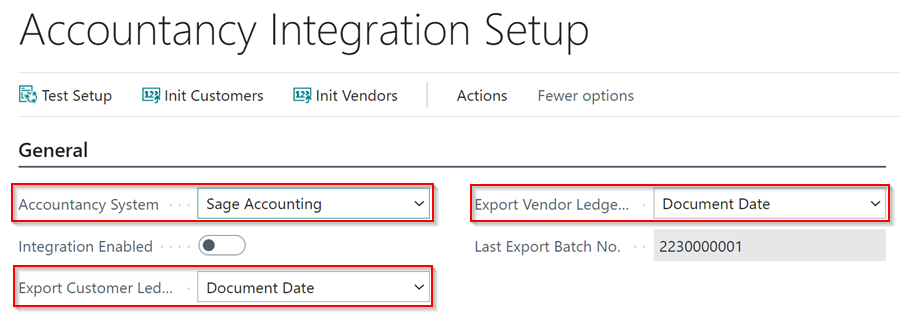
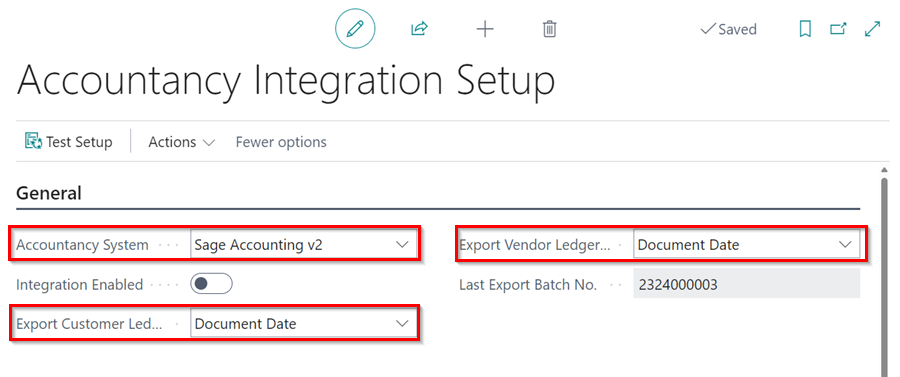
docs edits

diff --git a/docs/garagehive-sage-accounting-integration.md b/docs/garagehive-sage-accounting-integration.md
@@ -18,12 +18,12 @@ title: Sage Accounting Integration Setup
 
    ![](media/garagehive-sage-accounting-setup1.png)
 
-1. Select **Sage Accounting** as the **Accountancy System** in the **General** FastTab.
+1. Select **Sage Accounting 2** as the **Accountancy System** in the **General** FastTab.
 1. Specify whether the data should be exported using the posting date or the document date in the **Export Customer Ledger by** and **Export Vendor Ledger by** fields. The most commonly used approach is by **Document Date**. Garage Hive users are often limited to only posting within the current date, therefore the posting date may differ from the date on the invoice from the supplier, whereas the document date would match.
 
    ![](media/garagehive-sage-accounting-setup2.png)
 
-1. To authorise data sharing with **Sage Accounting** software, select **Actions** from the menu bar, then **Sage Accounting**, and then **Authorise**. 
+1. To authorise data sharing with **Sage Accounting 2** software, select **Actions** from the menu bar, then **Sage Accounting**, and then **Authorise**. 
 
    ![](media/garagehive-sage-accounting-setup4.png)
 
